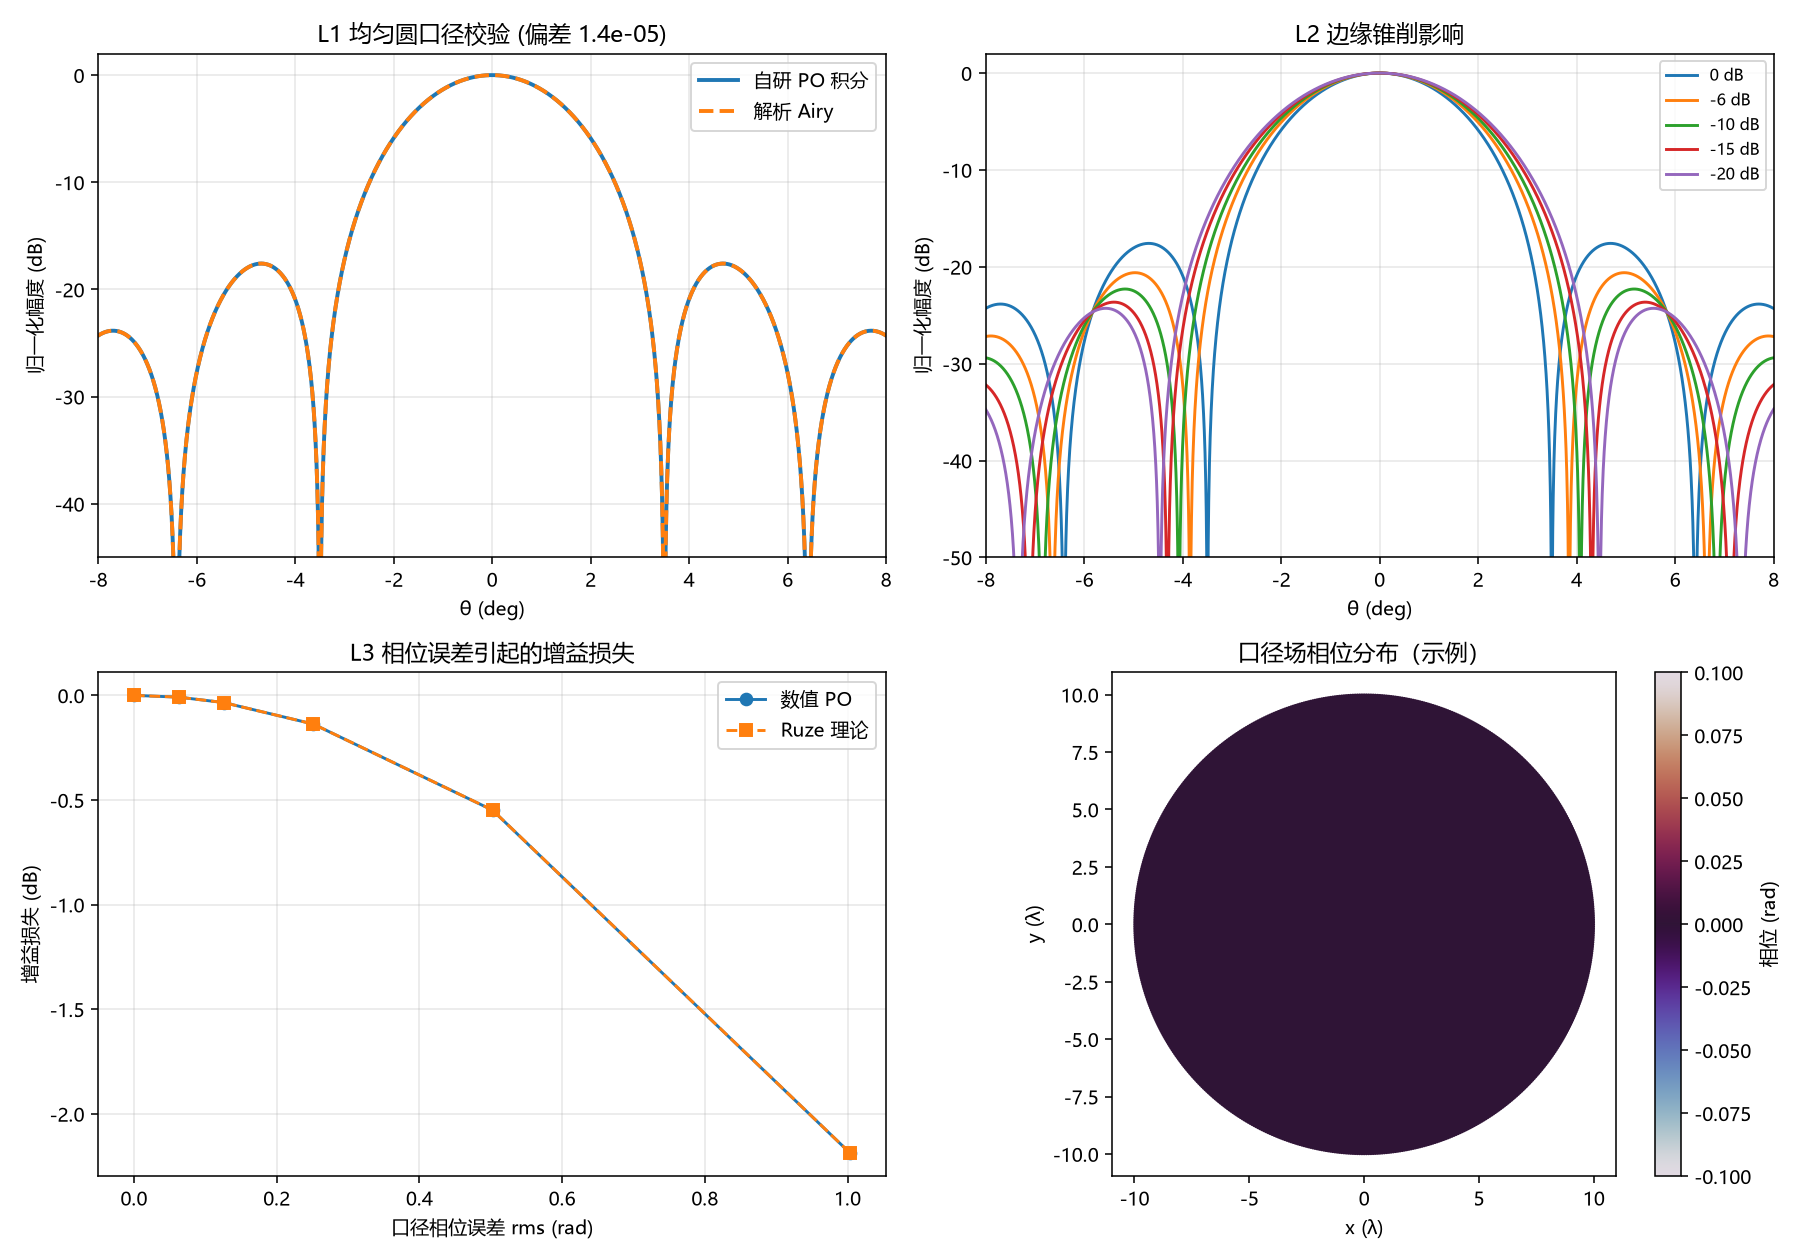
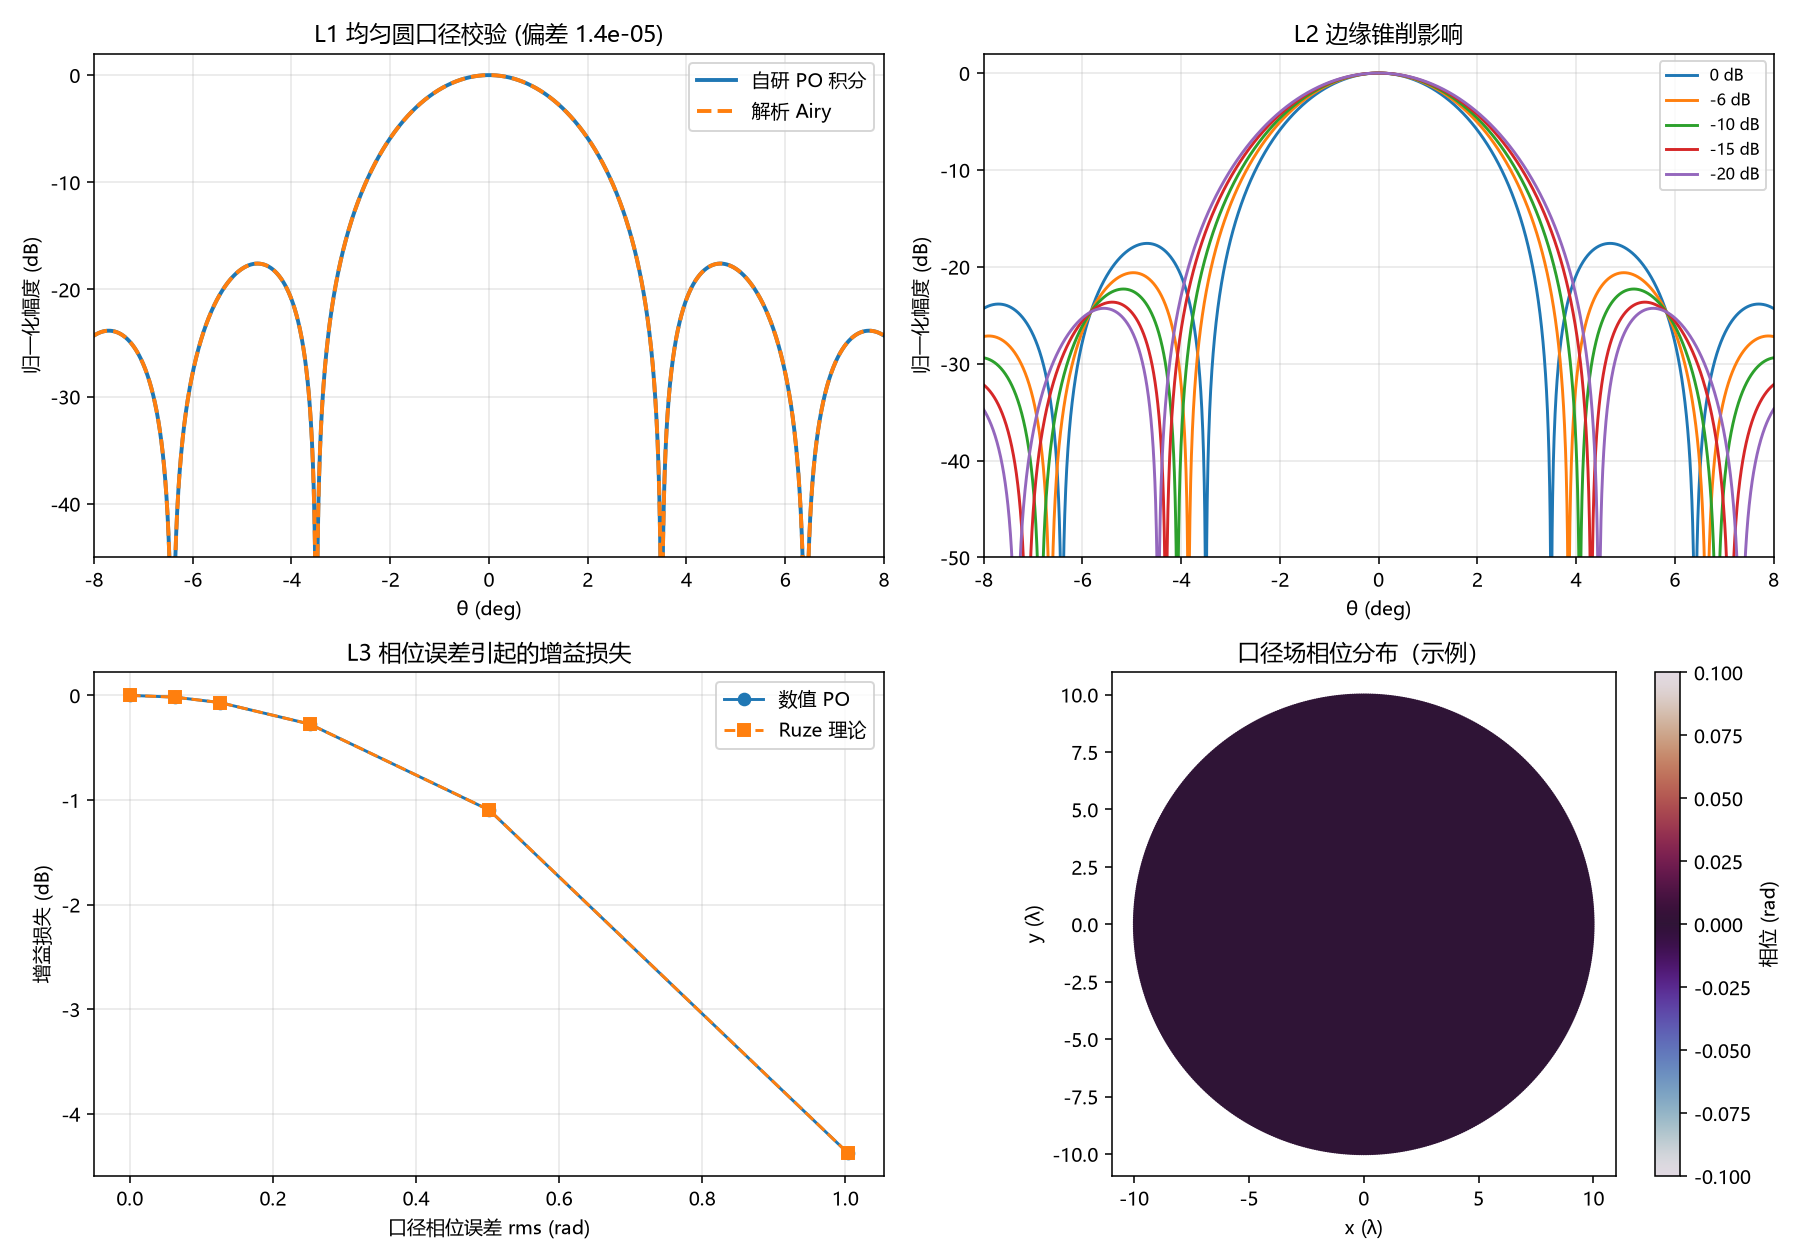
修 Ruze 因子：幅度比按 20log10 折算成功率，理论改 exp(-sigma^2)；validate_po 退出码纳入 L3

diff --git a/scripts/validate_po.py b/scripts/validate_po.py
@@ -111,7 +111,7 @@ def main() -> int:
     # ---------------- L3: 结构变形 -> 相位误差 -> 增益损失 ----------------
     emit("[L3] 结构变形 -> 口径相位误差 -> 增益损失（Ruze 公式校验）")
     emit("  模型：面板变形 w，口径相位扰动 dphi = 2k w")
-    emit("  Ruze: G/G0 = exp(-sigma_phi^2 / 2)  （复场相干因子）")
+    emit("  Ruze: G/G0 = exp(-sigma_phi^2)，sigma_phi 为相位误差 rms")
     emit()
     emit("  变形 rms (λ)   相位 rms (rad)   数值增益损失 (dB)   Ruze 理论 (dB)")
     emit("  " + "-" * 62)
@@ -152,10 +152,13 @@ def main() -> int:
             mean_ratio = float(np.mean(ratios))
             phi_rms = float(np.mean(phis))
 
-        loss_num = 10.0 * np.log10(max(mean_ratio, 1e-12))
-        # Ruze 公式：复场的相干因子为 exp(-sigma_phi^2 / 2)
-        # （这才是标准形式；写成 exp(-sigma^2) 会高估一倍，实测已验证）
-        loss_ruze = 10.0 * np.log10(np.exp(-(phi_rms**2) / 2.0))
+        # mean_ratio 是**幅度比**（on_axis_gain 返回复振幅的模）。
+        # 增益是功率，功率比 = mean_ratio^2，换算 dB 要用 20log10。
+        # （旧版用 10log10 把幅度比当成功效比，两边少算一半，
+        #   2026-11-03 审查发现——数值与理论用同一个错因子，所以自洽到 0.000 dB。）
+        loss_num = 20.0 * np.log10(max(mean_ratio, 1e-12))
+        # 标准 Ruze：G/G0 = exp(-sigma_phi^2)，sigma_phi 是口径相位误差的 rms（弧度）。
+        loss_ruze = 10.0 * np.log10(np.exp(-(phi_rms**2)))
 
         gain_num_db.append(loss_num)
         gain_ruze_db.append(loss_ruze)
@@ -244,7 +247,10 @@ def main() -> int:
         fh.write("\n".join(lines))
     print(f"\n结论已保存: {txt}")
 
-    return 0 if l1_ok else 1
+    ok = bool(l1_ok) and bool(l3_ok)
+    emit("")
+    emit(f"总判定: {'全部通过' if ok else '有未通过项（见上）'}")
+    return 0 if ok else 1
 
 
 if __name__ == "__main__":
